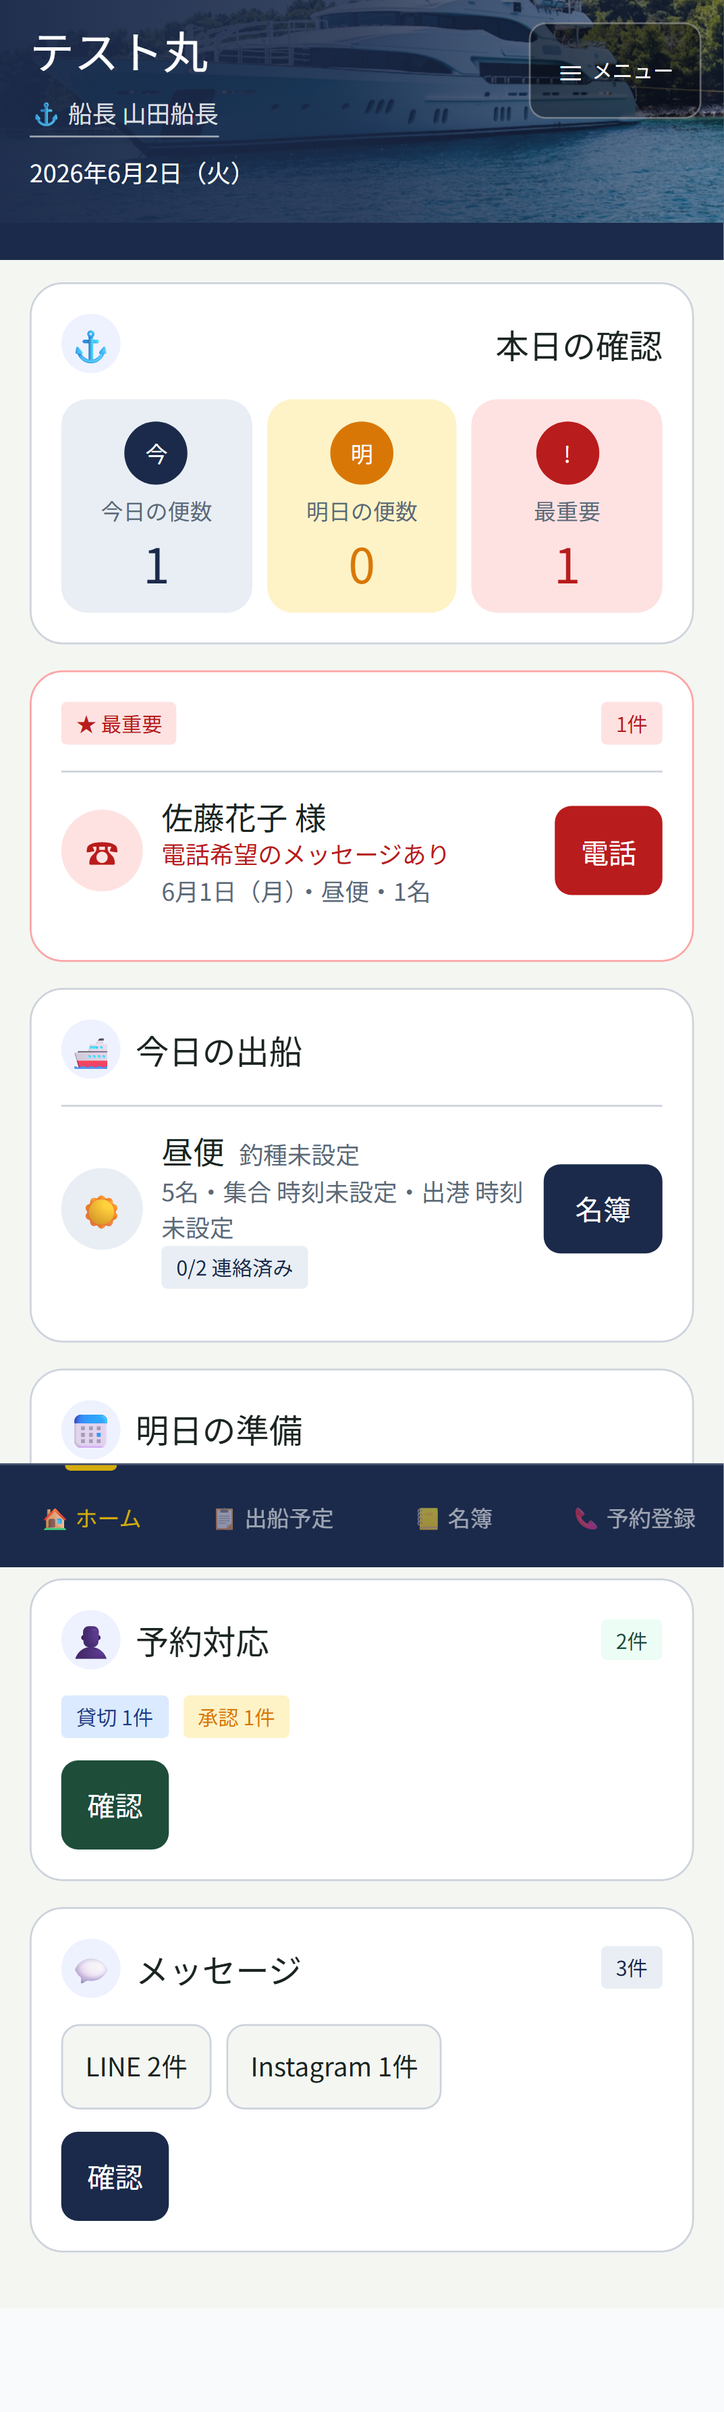
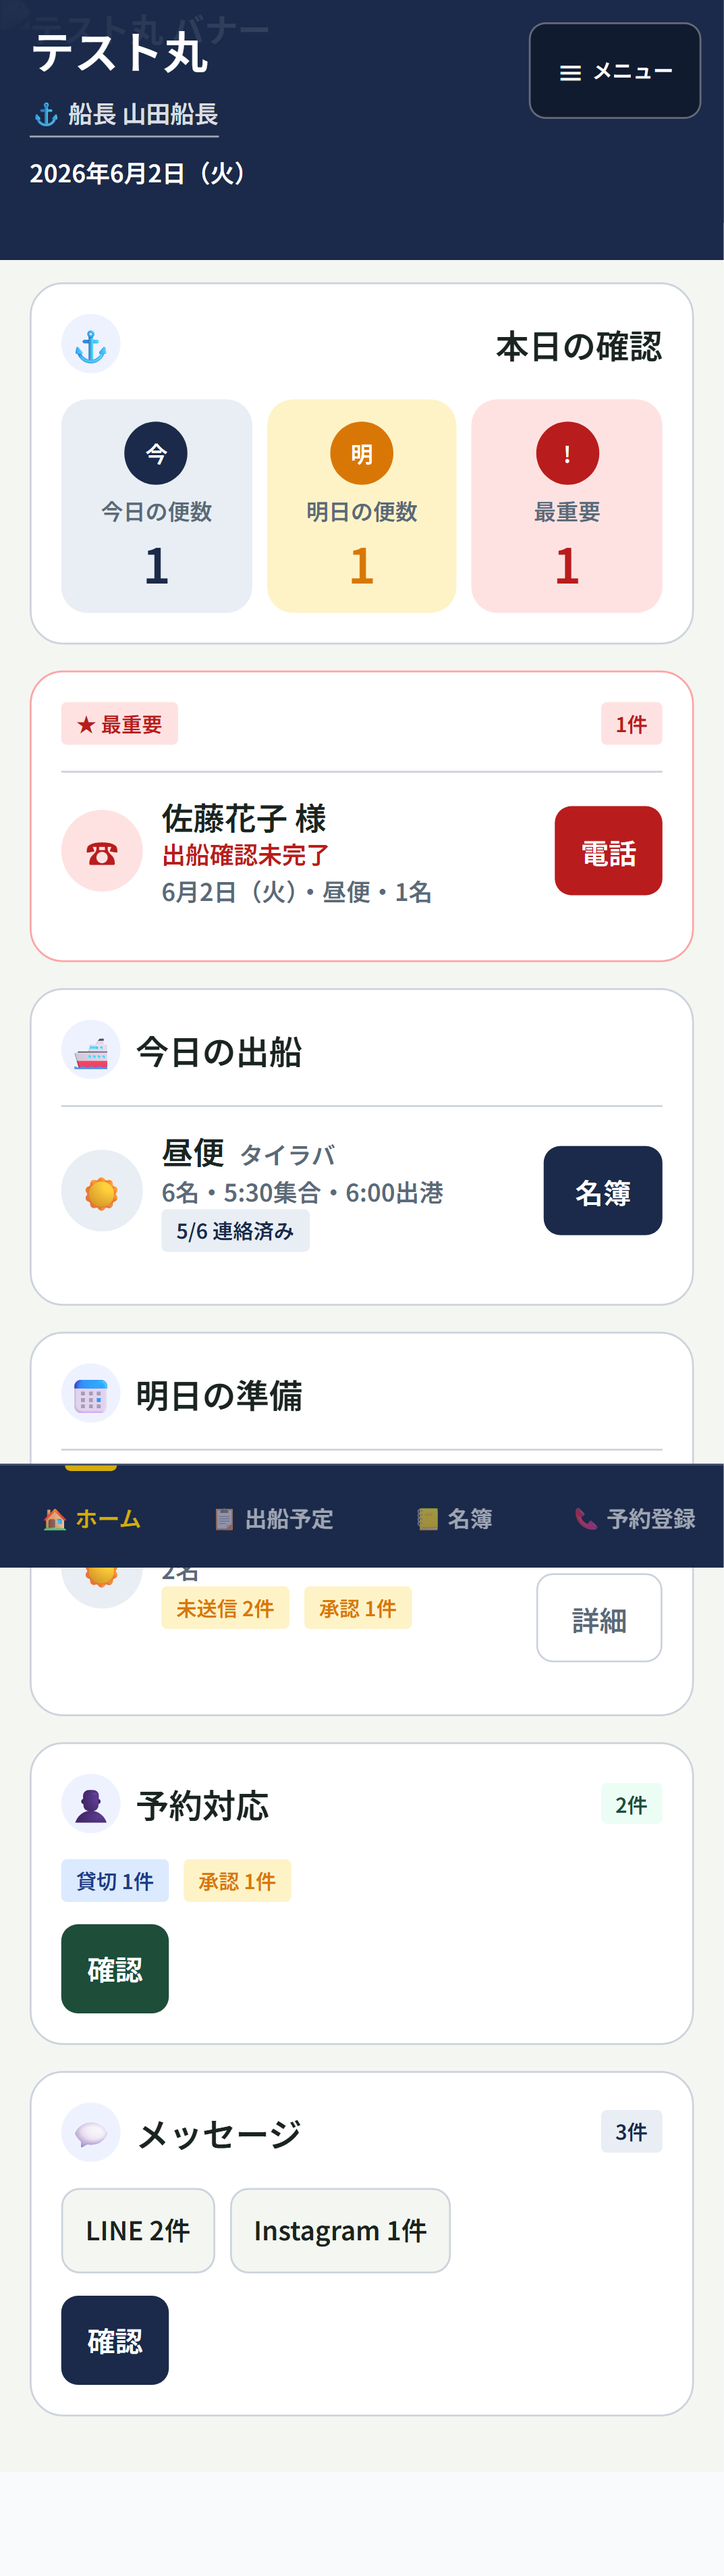
feat: ダッシュボードに便設定時刻を反映

diff --git a/tests/dashboard-check.spec.ts b/tests/dashboard-check.spec.ts
@@ -15,14 +15,17 @@ const env = fs.existsSync('.env.local')
   : {}
 const TEST_EMAIL = process.env.TEST_EMAIL || env.TEST_EMAIL || ''
 const TEST_PASSWORD = process.env.TEST_PASSWORD || env.TEST_PASSWORD || ''
+const USE_REAL_LOGIN = process.env.PLAYWRIGHT_USE_REAL_LOGIN === '1' && TEST_EMAIL && TEST_PASSWORD
 const SUPABASE_URL = process.env.NEXT_PUBLIC_SUPABASE_URL || env.NEXT_PUBLIC_SUPABASE_URL || ''
 const SUPABASE_REF = SUPABASE_URL ? new URL(SUPABASE_URL).hostname.split('.')[0] : ''
+const toLocalDateStr = (date: Date) =>
+  `${date.getFullYear()}-${String(date.getMonth() + 1).padStart(2, '0')}-${String(date.getDate()).padStart(2, '0')}`
 
 test('ダッシュボード確認', async ({ page }) => {
   fs.mkdirSync('docs/ai-reports/screenshots/dashboard-check', { recursive: true })
   await page.setViewportSize({ width: 390, height: 844 })
 
-  if (TEST_EMAIL && TEST_PASSWORD) {
+  if (USE_REAL_LOGIN) {
     await page.goto(`${BASE_URL}/login`)
     await page.waitForTimeout(1000)
     await page.fill('input[type="email"]', TEST_EMAIL)
@@ -89,12 +92,19 @@ test('ダッシュボード確認', async ({ page }) => {
           'Access-Control-Expose-Headers': 'Content-Range',
         },
         contentType: 'application/json',
-        body: JSON.stringify([{ id: 'mock-bin-setting' }]),
+        body: JSON.stringify([{
+          id: 'mock-bin-setting',
+          vessel_id: 'dashboard-preview-vessel',
+          bin_type: 'day',
+          meeting_time: '05:30',
+          departure_time: '06:00',
+          fish_types: ['タイラバ'],
+        }]),
       })
     })
     await page.route('**/rest/v1/bookings**', async route => {
-      const today = new Date().toISOString().slice(0, 10)
-      const tomorrow = new Date(Date.now() + 86400000).toISOString().slice(0, 10)
+      const today = toLocalDateStr(new Date())
+      const tomorrow = toLocalDateStr(new Date(Date.now() + 86400000))
       await route.fulfill({
         status: 200,
         contentType: 'application/json',
@@ -106,8 +116,8 @@ test('ダッシュボード確認', async ({ page }) => {
             bin_type: 'day',
             name: '山田太郎',
             tel: '09012345678',
-            count: 2,
-            fishing_style: null,
+            count: 1,
+            fishing_style: 'タイラバ',
             message: null,
             status: 'confirmed',
             channel: 'page',
@@ -125,29 +135,29 @@ test('ダッシュボード確認', async ({ page }) => {
             name: '佐藤花子',
             tel: '09087654321',
             count: 1,
-            fishing_style: null,
-            message: '電話希望のメッセージあり',
+            fishing_style: 'タイラバ',
+            message: '出船確認未完了',
             status: 'confirmed',
             channel: 'page',
             contacted: false,
             is_charter: false,
             needs_call: true,
-            needs_call_reason: '電話希望のメッセージあり',
+            needs_call_reason: '出船確認未完了',
             call_attempts: 0,
           },
           {
             id: 'mock-booking-3',
             vessel_id: 'dashboard-preview-vessel',
-            date: tomorrow,
+            date: today,
             bin_type: 'day',
             name: '田中一郎',
             tel: '09011112222',
-            count: 3,
-            fishing_style: null,
+            count: 1,
+            fishing_style: 'タイラバ',
             message: null,
             status: 'confirmed',
             channel: 'page',
-            contacted: false,
+            contacted: true,
             is_charter: false,
             needs_call: false,
             needs_call_reason: null,
@@ -156,12 +166,66 @@ test('ダッシュボード確認', async ({ page }) => {
           {
             id: 'mock-booking-4',
             vessel_id: 'dashboard-preview-vessel',
-            date: tomorrow,
+            date: today,
             bin_type: 'day',
             name: '鈴木次郎',
             tel: '09033334444',
+            count: 1,
+            fishing_style: 'タイラバ',
+            message: null,
+            status: 'confirmed',
+            channel: 'page',
+            contacted: true,
+            is_charter: false,
+            needs_call: false,
+            needs_call_reason: null,
+            call_attempts: 0,
+          },
+          {
+            id: 'mock-booking-5',
+            vessel_id: 'dashboard-preview-vessel',
+            date: today,
+            bin_type: 'day',
+            name: '高橋三郎',
+            tel: '09055556666',
+            count: 1,
+            fishing_style: 'タイラバ',
+            message: null,
+            status: 'confirmed',
+            channel: 'page',
+            contacted: true,
+            is_charter: false,
+            needs_call: false,
+            needs_call_reason: null,
+            call_attempts: 0,
+          },
+          {
+            id: 'mock-booking-6',
+            vessel_id: 'dashboard-preview-vessel',
+            date: today,
+            bin_type: 'day',
+            name: '伊藤五郎',
+            tel: '09066667777',
+            count: 1,
+            fishing_style: 'タイラバ',
+            message: null,
+            status: 'confirmed',
+            channel: 'page',
+            contacted: true,
+            is_charter: false,
+            needs_call: false,
+            needs_call_reason: null,
+            call_attempts: 0,
+          },
+          {
+            id: 'mock-booking-7',
+            vessel_id: 'dashboard-preview-vessel',
+            date: tomorrow,
+            bin_type: 'day',
+            name: '山本一郎',
+            tel: '09022223333',
             count: 2,
-            fishing_style: null,
+            fishing_style: 'SLJ',
             message: null,
             status: 'confirmed',
             channel: 'page',
@@ -172,14 +236,14 @@ test('ダッシュボード確認', async ({ page }) => {
             call_attempts: 0,
           },
           {
-            id: 'mock-booking-5',
+            id: 'mock-booking-8',
             vessel_id: 'dashboard-preview-vessel',
             date: tomorrow,
             bin_type: 'day',
-            name: '高橋三郎',
-            tel: '09055556666',
-            count: 2,
-            fishing_style: null,
+            name: '承認待ち太郎',
+            tel: '09099990000',
+            count: 1,
+            fishing_style: 'SLJ',
             message: null,
             status: 'pending',
             channel: 'page',
@@ -193,7 +257,7 @@ test('ダッシュボード確認', async ({ page }) => {
       })
     })
     await page.route('**/rest/v1/contacts**', async route => {
-      const tomorrow = new Date(Date.now() + 86400000).toISOString().slice(0, 10)
+      const tomorrow = toLocalDateStr(new Date(Date.now() + 86400000))
       await route.fulfill({
         status: 200,
         contentType: 'application/json',
@@ -222,6 +286,105 @@ test('ダッシュボード確認', async ({ page }) => {
       })
     })
   }
+
+  await page.route('**/rest/v1/vessels**', async route => {
+    await route.fulfill({
+      status: 200,
+      contentType: 'application/json',
+      body: JSON.stringify({
+        id: 'dashboard-preview-vessel',
+        name: 'テスト丸',
+        captain_name: '山田船長',
+        banner_url: 'https://images.unsplash.com/photo-1567899378494-47b22a2ae96a?w=800',
+        auto_confirm: true,
+        setup_completed: true,
+        date_format: 'western',
+      }),
+    })
+  })
+  await page.route('**/rest/v1/bin_settings**', async route => {
+    if (route.request().method() === 'HEAD') {
+      await route.fulfill({
+        status: 206,
+        headers: {
+          'Content-Range': '0-0/1',
+          'Access-Control-Expose-Headers': 'Content-Range',
+        },
+      })
+      return
+    }
+    await route.fulfill({
+      status: 206,
+      headers: {
+        'Content-Range': '0-0/1',
+        'Access-Control-Expose-Headers': 'Content-Range',
+      },
+      contentType: 'application/json',
+      body: JSON.stringify([{
+        id: 'mock-bin-setting',
+        vessel_id: 'dashboard-preview-vessel',
+        bin_type: 'day',
+        meeting_time: '05:30',
+        departure_time: '06:00',
+        fish_types: ['タイラバ'],
+      }]),
+    })
+  })
+  await page.route('**/rest/v1/bookings**', async route => {
+    const today = toLocalDateStr(new Date())
+    const tomorrow = toLocalDateStr(new Date(Date.now() + 86400000))
+    await route.fulfill({
+      status: 200,
+      contentType: 'application/json',
+      body: JSON.stringify([
+        { id: 'mock-booking-1', vessel_id: 'dashboard-preview-vessel', date: today, bin_type: 'day', name: '山田太郎', tel: '09012345678', count: 1, fishing_style: 'タイラバ', message: null, status: 'confirmed', channel: 'page', contacted: true, is_charter: false, needs_call: false, needs_call_reason: null, call_attempts: 0 },
+        { id: 'mock-booking-2', vessel_id: 'dashboard-preview-vessel', date: today, bin_type: 'day', name: '佐藤花子', tel: '09087654321', count: 1, fishing_style: 'タイラバ', message: '出船確認未完了', status: 'confirmed', channel: 'page', contacted: false, is_charter: false, needs_call: true, needs_call_reason: '出船確認未完了', call_attempts: 0 },
+        { id: 'mock-booking-3', vessel_id: 'dashboard-preview-vessel', date: today, bin_type: 'day', name: '田中一郎', tel: '09011112222', count: 1, fishing_style: 'タイラバ', message: null, status: 'confirmed', channel: 'page', contacted: true, is_charter: false, needs_call: false, needs_call_reason: null, call_attempts: 0 },
+        { id: 'mock-booking-4', vessel_id: 'dashboard-preview-vessel', date: today, bin_type: 'day', name: '鈴木次郎', tel: '09033334444', count: 1, fishing_style: 'タイラバ', message: null, status: 'confirmed', channel: 'page', contacted: true, is_charter: false, needs_call: false, needs_call_reason: null, call_attempts: 0 },
+        { id: 'mock-booking-5', vessel_id: 'dashboard-preview-vessel', date: today, bin_type: 'day', name: '高橋三郎', tel: '09055556666', count: 1, fishing_style: 'タイラバ', message: null, status: 'confirmed', channel: 'page', contacted: true, is_charter: false, needs_call: false, needs_call_reason: null, call_attempts: 0 },
+        { id: 'mock-booking-6', vessel_id: 'dashboard-preview-vessel', date: today, bin_type: 'day', name: '伊藤五郎', tel: '09066667777', count: 1, fishing_style: 'タイラバ', message: null, status: 'confirmed', channel: 'page', contacted: true, is_charter: false, needs_call: false, needs_call_reason: null, call_attempts: 0 },
+        { id: 'mock-booking-7', vessel_id: 'dashboard-preview-vessel', date: tomorrow, bin_type: 'day', name: '山本一郎', tel: '09022223333', count: 2, fishing_style: 'SLJ', message: null, status: 'confirmed', channel: 'page', contacted: false, is_charter: false, needs_call: false, needs_call_reason: null, call_attempts: 0 },
+        { id: 'mock-booking-8', vessel_id: 'dashboard-preview-vessel', date: tomorrow, bin_type: 'day', name: '承認待ち太郎', tel: '09099990000', count: 1, fishing_style: 'SLJ', message: null, status: 'pending', channel: 'page', contacted: false, is_charter: false, needs_call: false, needs_call_reason: null, call_attempts: 0 },
+      ]),
+    })
+  })
+  await page.route('**/rest/v1/contacts**', async route => {
+    const tomorrow = toLocalDateStr(new Date(Date.now() + 86400000))
+    await route.fulfill({
+      status: 200,
+      contentType: 'application/json',
+      body: JSON.stringify([{ id: 'mock-contact-1', name: '中村四郎', tel: '09077778888', message: '貸切で相談したいです', preferred_date: tomorrow, is_charter: true, is_negotiating: true }]),
+    })
+  })
+  await page.route('**/rest/v1/sns_messages**', async route => {
+    const url = route.request().url()
+    const count = url.includes('channel=eq.instagram') ? 1 : 2
+    await route.fulfill({
+      status: 206,
+      headers: {
+        'Content-Range': `0-${count - 1}/${count}`,
+        'Access-Control-Expose-Headers': 'Content-Range',
+      },
+    })
+  })
+  await page.route(/.*\/rest\/v1\/bookings.*/, async route => {
+    const today = toLocalDateStr(new Date())
+    const tomorrow = toLocalDateStr(new Date(Date.now() + 86400000))
+    await route.fulfill({
+      status: 200,
+      contentType: 'application/json',
+      body: JSON.stringify([
+        { id: 'mock-booking-1', vessel_id: 'dashboard-preview-vessel', date: today, bin_type: 'day', name: '山田太郎', tel: '09012345678', count: 1, fishing_style: 'タイラバ', message: null, status: 'confirmed', channel: 'page', contacted: true, is_charter: false, needs_call: false, needs_call_reason: null, call_attempts: 0 },
+        { id: 'mock-booking-2', vessel_id: 'dashboard-preview-vessel', date: today, bin_type: 'day', name: '佐藤花子', tel: '09087654321', count: 1, fishing_style: 'タイラバ', message: '出船確認未完了', status: 'confirmed', channel: 'page', contacted: false, is_charter: false, needs_call: true, needs_call_reason: '出船確認未完了', call_attempts: 0 },
+        { id: 'mock-booking-3', vessel_id: 'dashboard-preview-vessel', date: today, bin_type: 'day', name: '田中一郎', tel: '09011112222', count: 1, fishing_style: 'タイラバ', message: null, status: 'confirmed', channel: 'page', contacted: true, is_charter: false, needs_call: false, needs_call_reason: null, call_attempts: 0 },
+        { id: 'mock-booking-4', vessel_id: 'dashboard-preview-vessel', date: today, bin_type: 'day', name: '鈴木次郎', tel: '09033334444', count: 1, fishing_style: 'タイラバ', message: null, status: 'confirmed', channel: 'page', contacted: true, is_charter: false, needs_call: false, needs_call_reason: null, call_attempts: 0 },
+        { id: 'mock-booking-5', vessel_id: 'dashboard-preview-vessel', date: today, bin_type: 'day', name: '高橋三郎', tel: '09055556666', count: 1, fishing_style: 'タイラバ', message: null, status: 'confirmed', channel: 'page', contacted: true, is_charter: false, needs_call: false, needs_call_reason: null, call_attempts: 0 },
+        { id: 'mock-booking-6', vessel_id: 'dashboard-preview-vessel', date: today, bin_type: 'day', name: '伊藤五郎', tel: '09066667777', count: 1, fishing_style: 'タイラバ', message: null, status: 'confirmed', channel: 'page', contacted: true, is_charter: false, needs_call: false, needs_call_reason: null, call_attempts: 0 },
+        { id: 'mock-booking-7', vessel_id: 'dashboard-preview-vessel', date: tomorrow, bin_type: 'day', name: '山本一郎', tel: '09022223333', count: 2, fishing_style: 'SLJ', message: null, status: 'confirmed', channel: 'page', contacted: false, is_charter: false, needs_call: false, needs_call_reason: null, call_attempts: 0 },
+        { id: 'mock-booking-8', vessel_id: 'dashboard-preview-vessel', date: tomorrow, bin_type: 'day', name: '承認待ち太郎', tel: '09099990000', count: 1, fishing_style: 'SLJ', message: null, status: 'pending', channel: 'page', contacted: false, is_charter: false, needs_call: false, needs_call_reason: null, call_attempts: 0 },
+      ]),
+    })
+  })
 
   await page.goto(`${BASE_URL}/dashboard`)
   await page.waitForTimeout(1000)

diff --git a/src/app/dashboard/page.tsx b/src/app/dashboard/page.tsx
@@ -28,6 +28,12 @@ type Booking = {
 }
 type Contact = { id: string; name: string; message: string; preferred_date: string | null; is_charter: boolean; is_negotiating: boolean }
 type CancelTarget = { date: string; bin_type: 'day' | 'night' | 'relay'; bin_name: string }
+type BinSetting = {
+  bin_type: 'day' | 'night' | 'relay'
+  meeting_time: string | null
+  departure_time: string | null
+  fish_types: string[] | null
+}
 
 const toJapaneseYear = (date: Date) => {
   const year = date.getFullYear()
@@ -46,6 +52,7 @@ export default function DashboardPage() {
   const [loading, setLoading] = useState(true)
   const [vessel, setVessel] = useState<Vessel | null>(null)
   const [bookings, setBookings] = useState<Booking[]>([])
+  const [binSettings, setBinSettings] = useState<BinSetting[]>([])
   const [contacts, setContacts] = useState<Contact[]>([])
   const [snsCounts, setSnsCounts] = useState({ line: 0, instagram: 0 })
   const [callTarget, setCallTarget] = useState<Booking | null>(null)
@@ -87,13 +94,15 @@ export default function DashboardPage() {
 
       setVessel(v as Vessel)
 
-      const [{ data: bk }, { data: ct }, { count: lineCount }, { count: instagramCount }] = await Promise.all([
+      const [{ data: bk }, { data: bs }, { data: ct }, { count: lineCount }, { count: instagramCount }] = await Promise.all([
         supabase.from('bookings').select('*').eq('vessel_id', v.id).gte('date', today).neq('status', 'rejected').order('date', { ascending: true }),
+        supabase.from('bin_settings').select('bin_type, meeting_time, departure_time, fish_types').eq('vessel_id', v.id),
         supabase.from('contacts').select('*').eq('vessel_id', v.id).eq('is_charter', true).eq('is_negotiating', true).order('created_at', { ascending: false }),
         supabase.from('sns_messages').select('id', { count: 'exact', head: true }).eq('vessel_id', v.id).eq('channel', 'line').eq('status', 'unprocessed'),
         supabase.from('sns_messages').select('id', { count: 'exact', head: true }).eq('vessel_id', v.id).eq('channel', 'instagram').eq('status', 'unprocessed'),
       ])
       setBookings((bk || []) as Booking[])
+      setBinSettings((bs || []) as BinSetting[])
       setContacts((ct || []) as Contact[])
       setSnsCounts({ line: lineCount || 0, instagram: instagramCount || 0 })
       setLoading(false)
@@ -160,7 +169,7 @@ export default function DashboardPage() {
 
   const actionable = bookings.filter(b => b.status !== 'cancelled' && (b.needs_call || b.status === 'pending' || b.is_charter))
   const todaysBookings = bookings.filter(b => b.date === today && b.status === 'confirmed')
-  const tomorrowBookings = bookings.filter(b => b.date === tomorrow && b.status === 'confirmed')
+  const tomorrowBookings = bookings.filter(b => b.date === tomorrow && (b.status === 'confirmed' || b.status === 'pending'))
   const nextBooking = bookings.find(b => b.date > tomorrow && b.status === 'confirmed')
   const importantBookings = actionable.filter(b => b.needs_call)
   const pendingBookings = bookings.filter(b => b.status === 'pending')
@@ -173,6 +182,17 @@ export default function DashboardPage() {
   const todayGroups = groupByBin(todaysBookings)
   const tomorrowGroups = groupByBin(tomorrowBookings)
   const totalPeople = (items: Booking[]) => items.reduce((sum, booking) => sum + booking.count, 0)
+  const binSettingFor = (binType: string) => binSettings.find(setting => setting.bin_type === binType)
+  const formatTime = (time?: string | null) => time ? time.slice(0, 5).replace(/^0/, '') : '未設定'
+  const fishingStyleFor = (items: Booking[], binType: string) => {
+    const bookingStyle = items.find(booking => booking.fishing_style)?.fishing_style
+    const settingStyle = binSettingFor(binType)?.fish_types?.[0]
+    return bookingStyle || settingStyle || '釣種未設定'
+  }
+  const timeLabelFor = (binType: string) => {
+    const setting = binSettingFor(binType)
+    return `${formatTime(setting?.meeting_time)}集合・${formatTime(setting?.departure_time)}出港`
+  }
   const contactProgress = (items: Booking[]) => {
     if (items.length === 0) return '連絡なし'
     const contacted = items.filter(booking => booking.contacted).length
@@ -261,8 +281,8 @@ export default function DashboardPage() {
           <div className={styles.sailingCard} key={`${today}-${binType}`}>
             <div className={styles.binIcon}>{binIcon(binType)}</div>
             <div className={styles.sailingBody}>
-              <div className={styles.sailingTitle}>{binLabel(binType)} <span>{group[0]?.fishing_style || '釣種未設定'}</span></div>
-              <div className={styles.sailingMeta}>{totalPeople(group)}名・集合 時刻未設定・出港 時刻未設定</div>
+              <div className={styles.sailingTitle}>{binLabel(binType)} <span>{fishingStyleFor(group, binType)}</span></div>
+              <div className={styles.sailingMeta}>{totalPeople(group)}名・{timeLabelFor(binType)}</div>
               <div className={styles.wrapRow}>
                 <span className={`${styles.countBadge} ${styles.messageCountBadge}`}>{contactProgress(group)}</span>
               </div>
@@ -283,11 +303,12 @@ export default function DashboardPage() {
           <div className={styles.prepareCard} key={`${tomorrow}-${binType}`}>
             <div className={styles.binIcon}>{binIcon(binType)}</div>
             <div className={styles.sailingBody}>
-              <div className={styles.sailingTitle}>{binLabel(binType)} <span>{group[0]?.fishing_style || '釣種未設定'}</span></div>
-              <div className={styles.sailingMeta}>{totalPeople(group)}名</div>
+              <div className={styles.sailingTitle}>{binLabel(binType)} <span>{fishingStyleFor(group, binType)}</span></div>
+              <div className={styles.sailingMeta}>{totalPeople(group.filter(booking => booking.status === 'confirmed')) || totalPeople(group)}名</div>
               <div className={styles.wrapRow}>
-                {group.some(booking => !booking.contacted) && <span className={`${styles.countBadge} ${styles.goldCountBadge}`}>未送信あり</span>}
-                <span className={`${styles.countBadge} ${styles.bookingCountBadge}`}>承認済み</span>
+                {group.some(booking => !booking.contacted) && <span className={`${styles.countBadge} ${styles.goldCountBadge}`}>未送信 {group.filter(booking => !booking.contacted).length}件</span>}
+                {group.some(booking => booking.status === 'pending') && <span className={`${styles.countBadge} ${styles.goldCountBadge}`}>承認 {group.filter(booking => booking.status === 'pending').length}件</span>}
+                {!group.some(booking => booking.status === 'pending') && <span className={`${styles.countBadge} ${styles.bookingCountBadge}`}>承認済み</span>}
               </div>
             </div>
             <div className={styles.prepareActions}>
